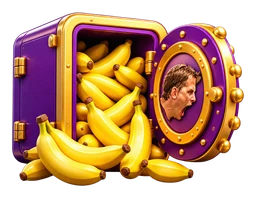
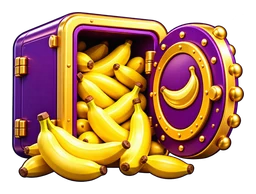
Replace Emil portrait on banana fortune badge

diff --git a/docs/designs/banana-baron-neutral.md b/docs/designs/banana-baron-neutral.md
@@ -1,0 +1,9 @@
+# x67 uden Emil
+
+1. november 2026. Redigeret med den indbyggede image_gen med `transparent_background: true`. Redigeringsmål: det tidligere `public/badges/custom/banana-baron.webp`.
+
+Ny original: `banana-baron-neutral/banana-baron.png`. Installeret som `public/badges/custom/banana-baron.webp` med `node scripts/install-badge-art.mjs docs/designs/banana-baron-neutral`. Visuelt kontrolleret: ingen portrætter, guldbanan på den lilla låge, samme bankboks og banantema. Badge-id, trin, krav og belønninger er bevaret. x68 og x69 er ikke ændret.
+
+## Prompt
+
+Use case: precise-object-edit. Edit target: the attached banana fortune badge x67, a purple and gold open safe overflowing with bananas. Remove ONLY the human head portrait on the inside of the round safe door. Replace that portrait with a small elegant embossed curved whole gold banana emblem on the same purple circular panel. Preserve the open safe, door perspective, hinges, gold rivets, piles of bananas, composition, silhouette, playful glossy detailed 3D materials, warm lighting and purple/gold palette. No human face, head, portrait or recognizable person anywhere. Keep the banana emblem clearly recognizable as a curved banana, no ambiguous upright forms. Genuine transparent alpha background. Square fully contained badge with transparent padding. No extra text, floor, backdrop, medal ring or watermark.
